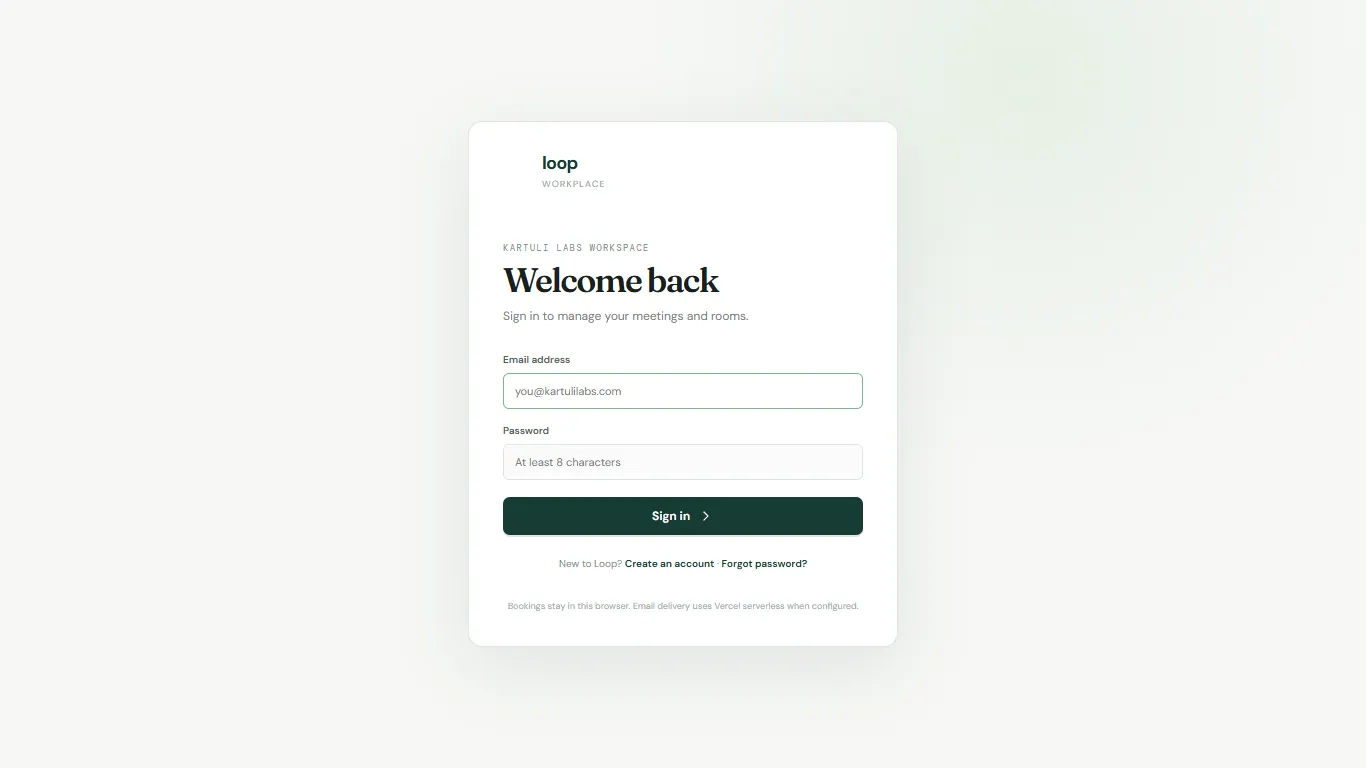
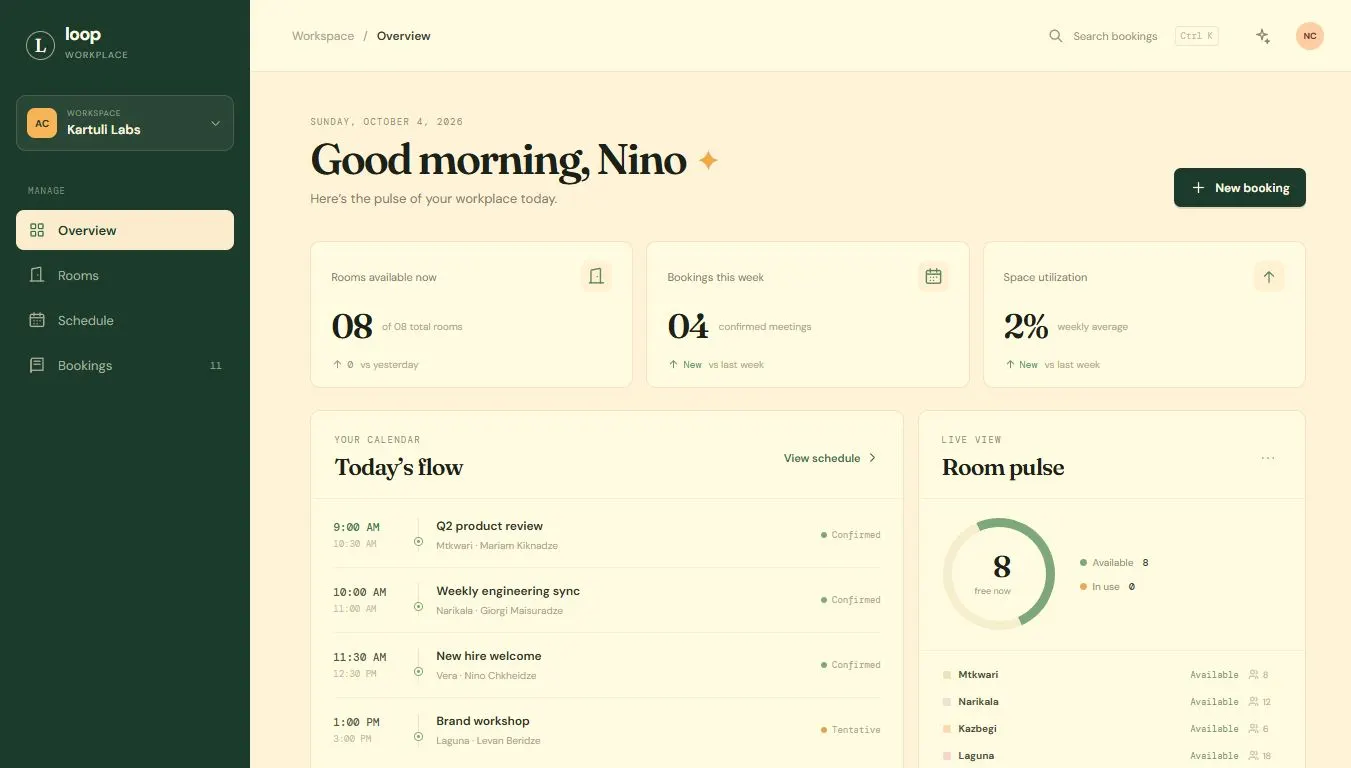
Show the public Loop dashboard in project previews

diff --git a/src/data/portfolioData.js b/src/data/portfolioData.js
@@ -87,13 +87,13 @@ export const projects = [
     slug: 'loop-meeting-room-booking',
     title: 'Loop — Meeting Room Booking',
     description:
-      'Team room-booking dashboard with room availability, daily reservations, and an optional serverless email notification flow.',
+      'Interactive room-booking demo with room availability, daily reservations, and browser-saved bookings. Opens straight to the dashboard.',
     tags: ['React', 'TypeScript', 'Vercel'],
     githubLink: 'https://github.com/GiorgiKemo/techzy-frontend-assigment',
     liveLink: 'https://techzy-frontend-assigment.vercel.app',
     liveLinkLabel: 'Open Demo',
     previewImage: '/project-previews/loop-meeting-room-booking.png',
-    previewImageDimensions: { width: 1366, height: 768 },
+    previewImageDimensions: { width: 1351, height: 768 },
     complexityScore: 79,
     visibility: 'public',
   },
